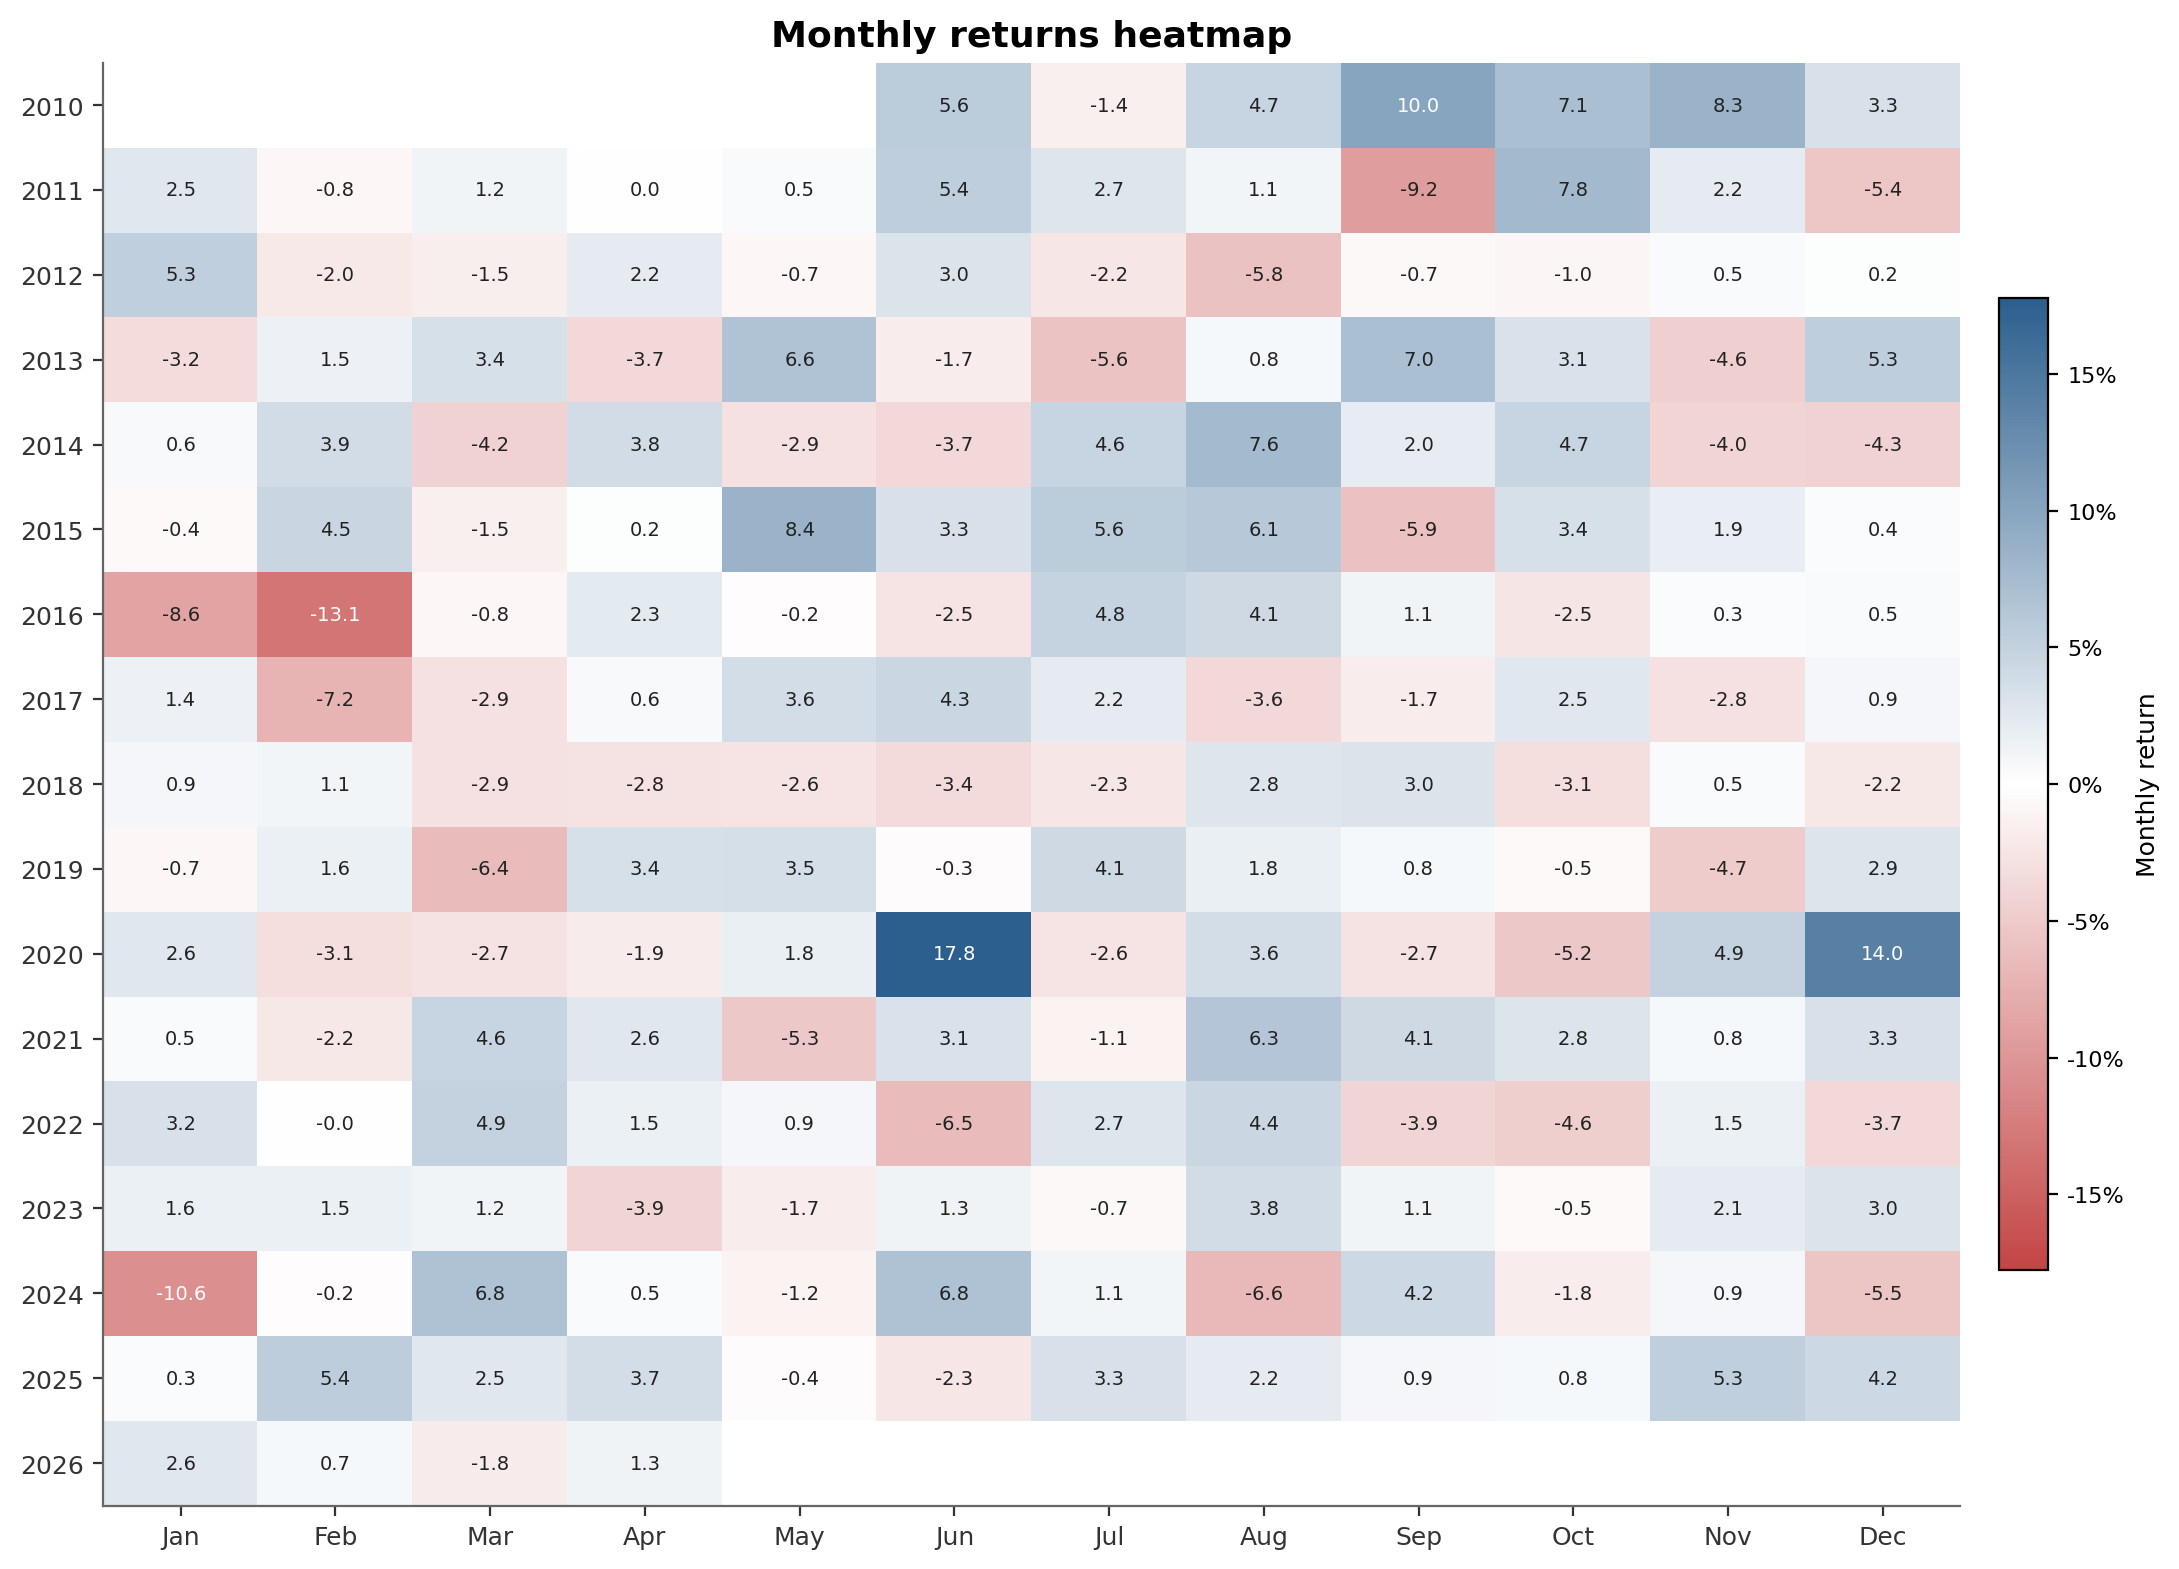
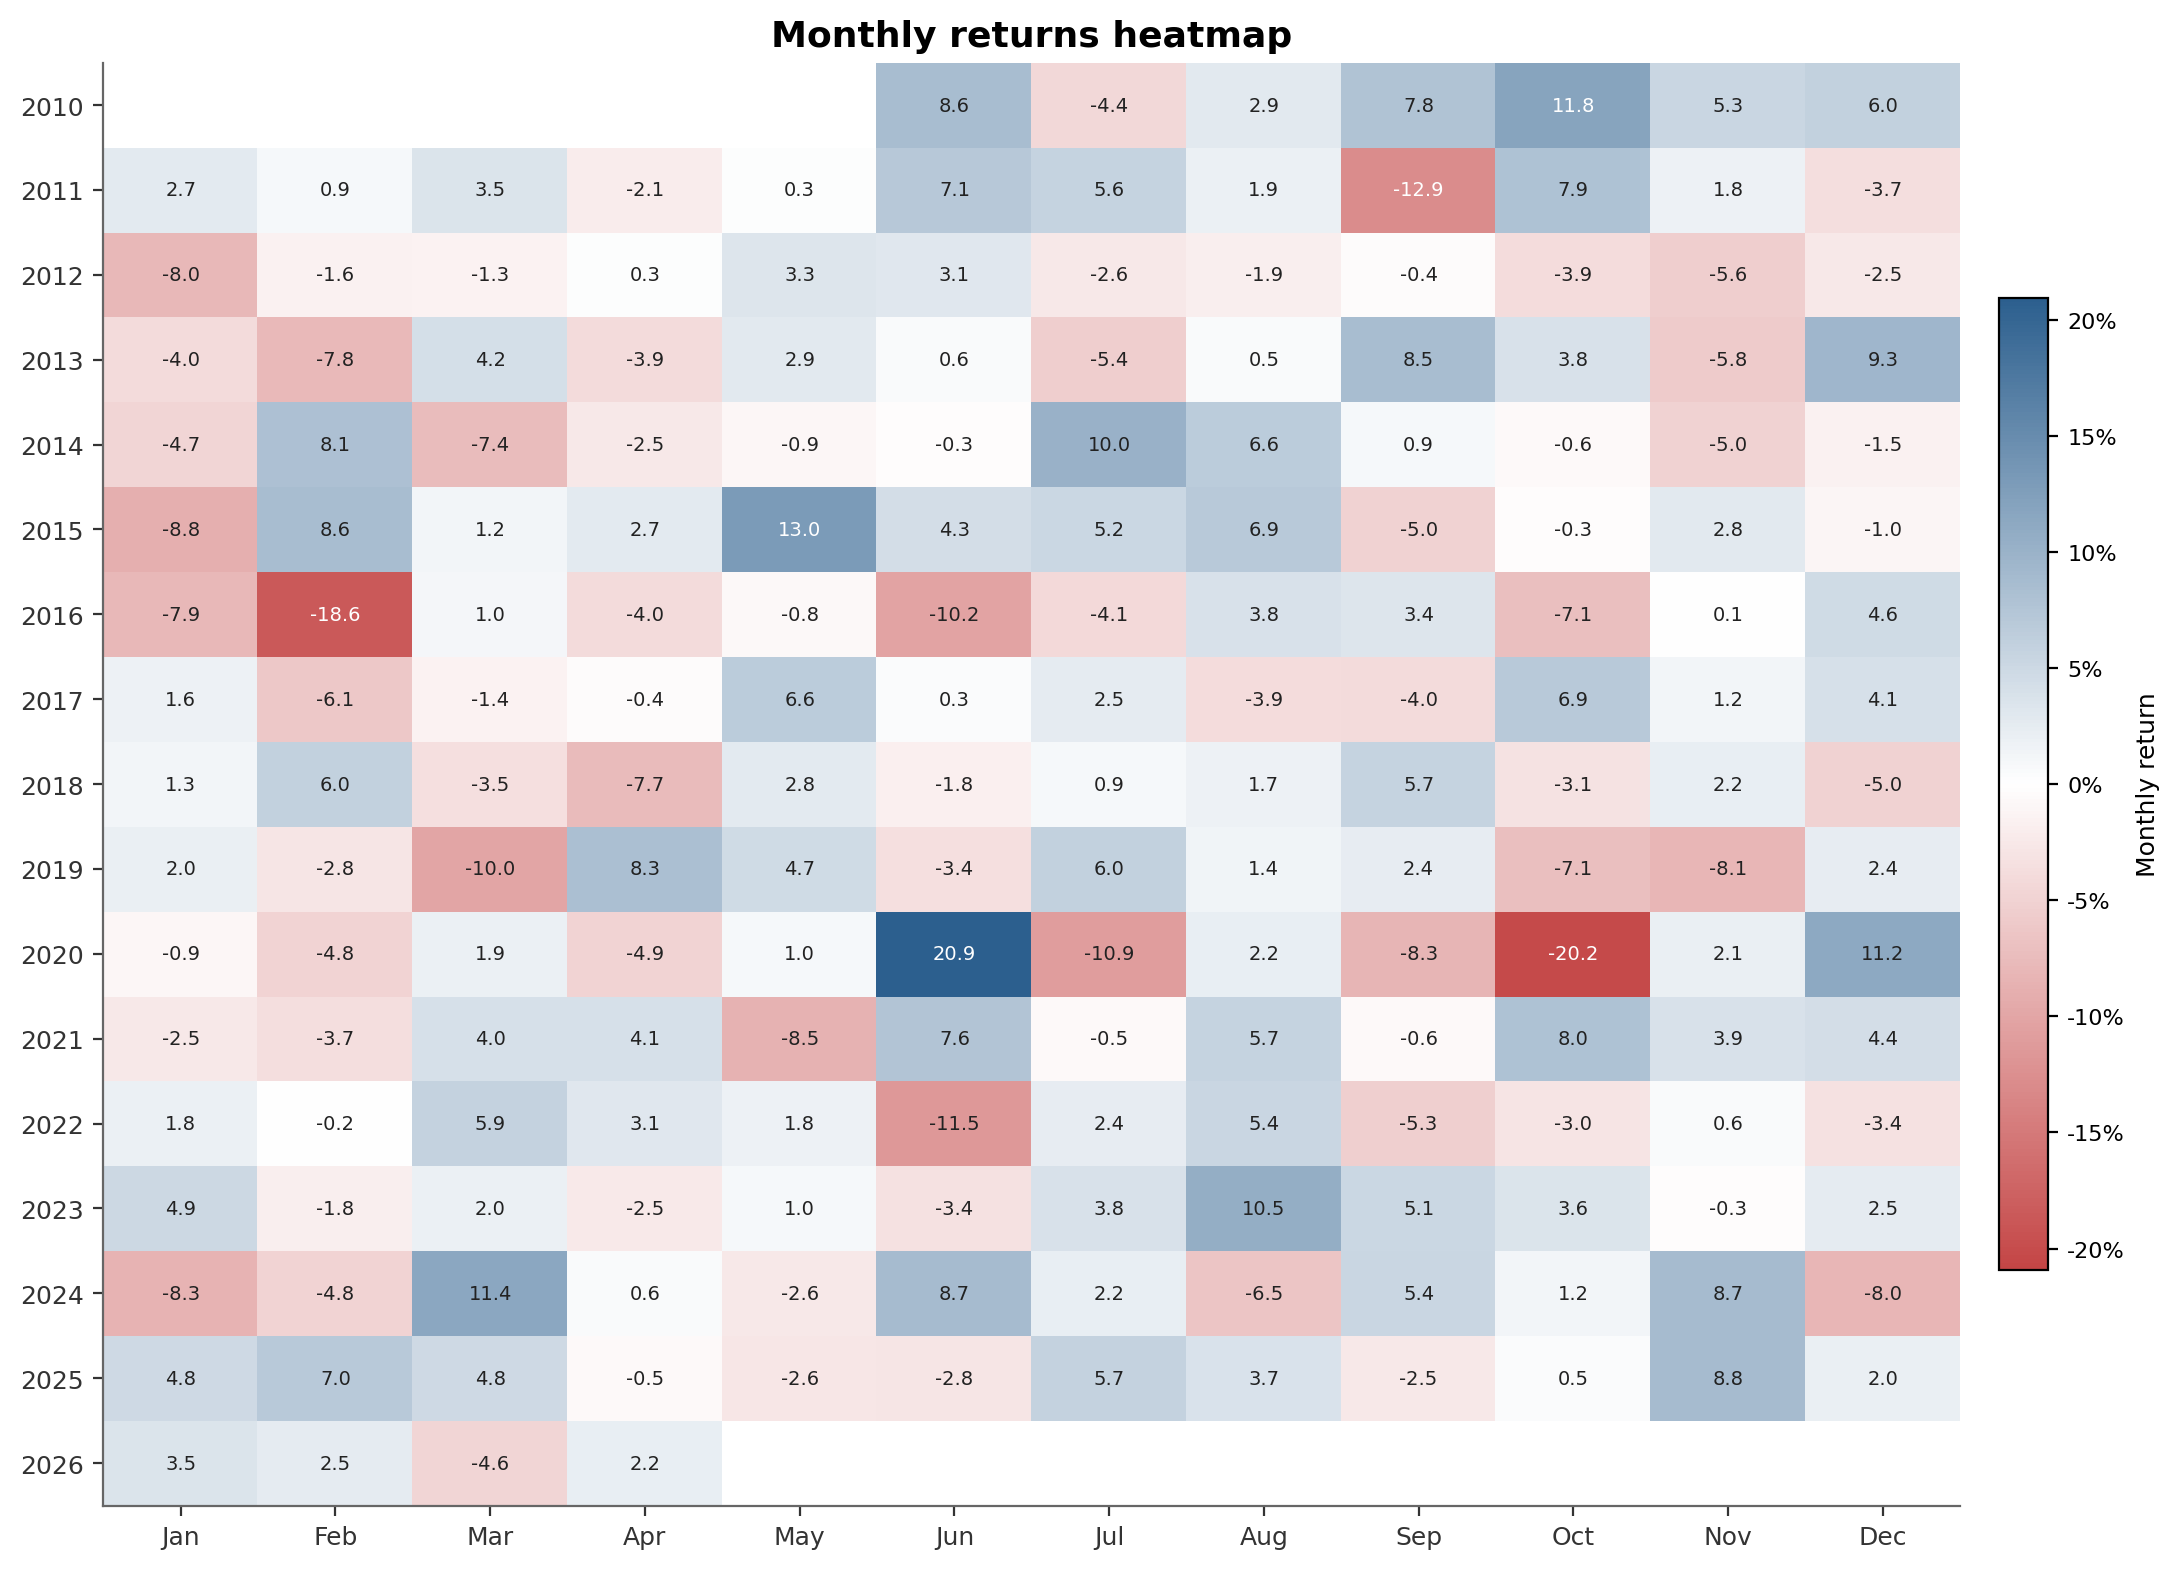
add decile concentration test (top 10% short) for polarity-aware EW
You asked: with EW polarity fixed, can we get a working short-only book
by concentrating into the top 10% (decile) instead of the top 20%
(quintile)?

Answer: yes, barely, and only in OOS.

Ran scripts/06_backtest.py --monthly --n-buckets 10 to produce
decile_short and long_short_decile variants for every model. Quintile
summary preserved as the primary backtest_summary_monthly.csv; decile
summary saved to backtest_summary_monthly_decile.csv.

Highlights (n_OOS=35):
- EW decile-short OOS Sharpe = +0.07 -- the FIRST positive short-only
  Sharpe of the entire project. Above zero but small. Goes negative
  again over the full n=191 panel (-0.09).
- EW long-short decile OOS Sharpe = 1.04 with +26.2% CAGR -- the highest
  single-strategy figure in the entire repo. naive L/S decile is even
  higher (1.21 Sharpe, -12.7% MaxDD).
- Every trained model gets WORSE in deciles -- gbm_cls L/S decile is
  -0.79 Sharpe. Their picks are already squeeze-concentrated; sharpening
  the short basket makes that worse.

README adds a new Table 4 "Concentration sensitivity: decile vs quintile"
under the headline section, with the per-strategy stats and a three-bullet
discussion. The "all short-only books are negative" claim downgraded to
"almost everywhere" with the EW decile-short caveat.

Parquet files added: backtest_monthly_*_long_short_decile.parquet,
backtest_monthly_*_decile_short.parquet for all 5 models.

diff --git a/README.md b/README.md
@@ -92,10 +92,61 @@ still show real positive long-short alpha (0.5+ Sharpe over 16 years
 with realistic costs), but at a more sober level than the recent OOS
 window alone would suggest.
 
-The short-only books (Table 2 OOS and the last two rows of Table 3)
-are **negative Sharpe at every horizon**. Naked-short alpha is not a
-viable standalone strategy on this universe; the dollar-neutral L/S
-quintile carries on the long leg.
+### Table 4 — Concentration sensitivity: decile (top 10 %) vs quintile (top 20 %)
+
+What if we **sharpen** the bet — short the top 10 % by score instead
+of the top 20 %, and (for the L/S variant) long the bottom 10 %
+instead of the bottom 20 %? For the parameter-free models this is a
+clean signal-to-noise test: if the model's ranking is real, halving
+the basket size should *strengthen* the spread per dollar of risk.
+For the trained models it tends to *amplify* squeeze risk because
+their picks are already concentrated into high-conviction names
+(Appen, 4DX, BrainChip) — going decile makes that concentration
+worse.
+
+| Model | Strategy | Window | n | Sharpe | CAGR | MaxDD | Hit-rate |
+|---|---|---|---:|---:|---:|---:|---:|
+| **naive** | L/S decile | OOS | 35 | **1.21** | +21.7 % | **−12.7 %** | **65.7 %** |
+| **ew** | L/S decile | OOS | 35 | **1.04** | **+26.2 %** | −20.2 % | 62.9 % |
+| **ew** | **decile-short** | OOS | 35 | **+0.07** | −1.6 % | −41.6 % | 45.7 % |
+| naive | decile-short | OOS | 35 | −0.10 | −4.7 % | −37.1 % | 51.4 % |
+| logit | L/S decile | OOS | 35 | 0.04 | −1.6 % | −46.6 % | 45.7 % |
+| gbm_rank | L/S decile | OOS | 35 | −0.18 | −8.9 % | −55.2 % | 51.4 % |
+| gbm_cls | L/S decile | OOS | 35 | −0.79 | −16.7 % | −49.4 % | 40.0 % |
+| naive | L/S decile | full period | 191 | 0.33 | +4.6 % | −54.0 % | 57.1 % |
+| ew | L/S decile | full period | 191 | 0.59 | +12.5 % | −67.0 % | 65.4 % |
+| ew | decile-short | full period | 191 | −0.09 | −8.1 % | −88.3 % | 49.7 % |
+
+**Three things worth calling out:**
+
+1. **EW decile-short OOS Sharpe = +0.07** — the **first positive
+   short-only Sharpe** anywhere in this project. Concentrating
+   into the top 10 % of the polarity-aware composite is the only
+   short-only book that clears zero on the OOS holdout, although
+   it's barely above zero and goes negative again on the
+   full-period n=191 (−0.09). Suggestive, not conclusive.
+2. **EW L/S decile OOS Sharpe = 1.04** with **+26.2 % CAGR** —
+   the highest single-strategy result in the entire table.
+   `naive` L/S decile is even higher (1.21 Sharpe) with a tighter
+   drawdown (−12.7 %).
+3. **Every trained model gets *worse* under decile concentration.**
+   `gbm_cls` L/S decile is −0.79 Sharpe (vs −1.11 quintile —
+   marginally less bad, but still terrible). `gbm_rank` and `logit`
+   barely move. Concentrating their already-concentrated short list
+   doesn't help.
+
+The decile result is consistent with the broader story: this
+universe has real cross-sectional short-interest alpha, and a
+hand-built no-training composite captures it cleanly. Fancy models
+trip over the same fat-tail squeezes that the broader baseline
+picks ride out.
+
+The short-only books (Table 2 OOS, Table 3 last two rows, and the
+trained-model rows of Table 4) are negative Sharpe almost everywhere.
+The single positive-Sharpe naked short — EW decile-short OOS at
++0.07 — is too small to call a strategy. **Naked short alpha is not
+a viable standalone book on this universe**; the dollar-neutral L/S
+construction is essential.
 
 ![Cumulative growth of $1 — solid = quintile-short, dotted = long-short](charts/cumulative_returns_monthly.png)
 
